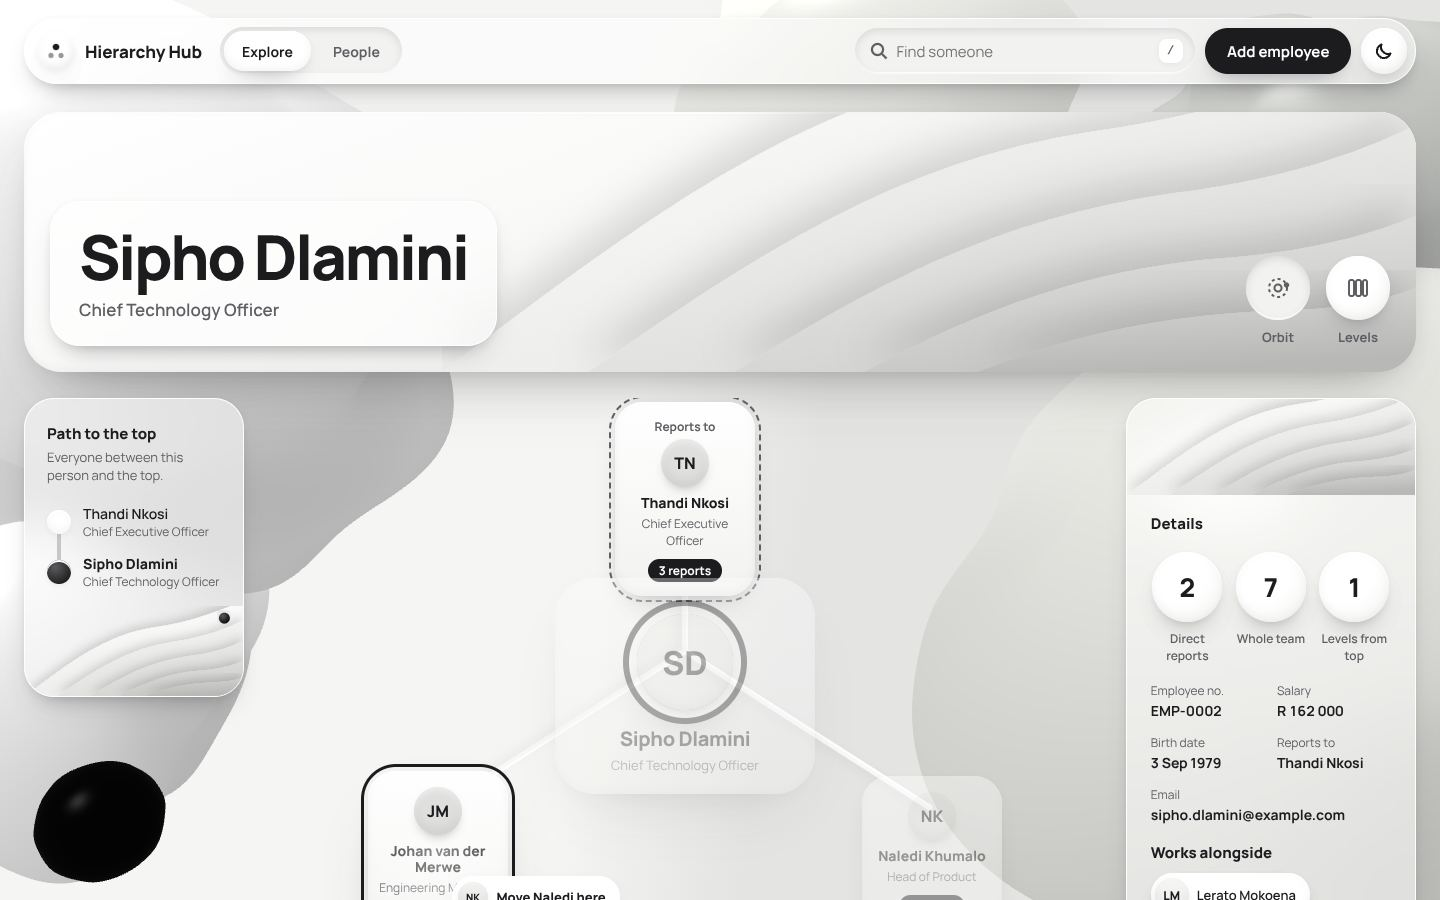
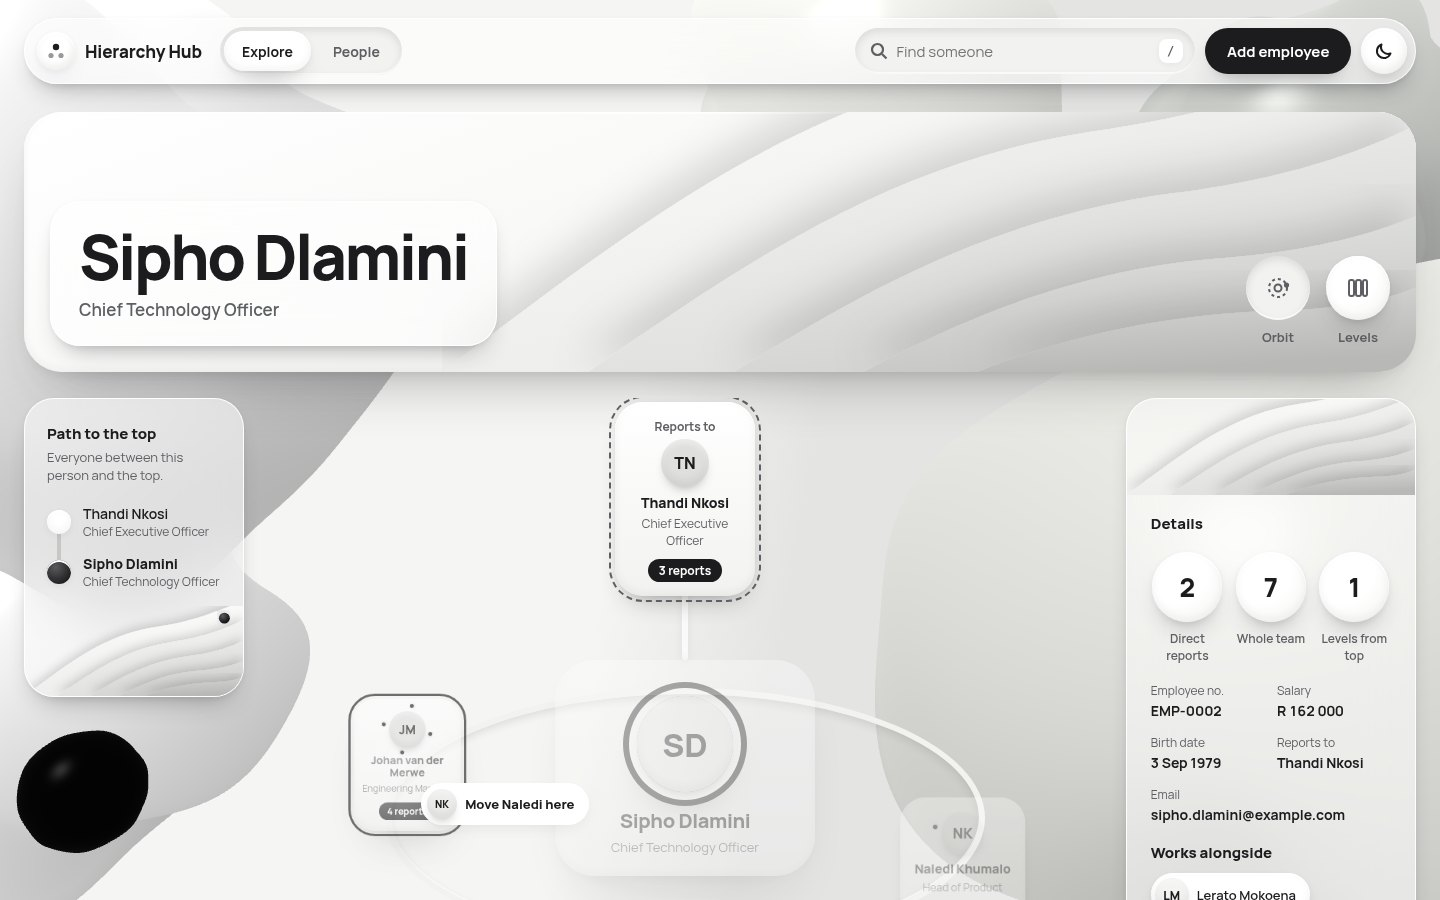
Update the user guide for the 3d orbit

diff --git a/docs/user-guide/USER_GUIDE.md b/docs/user-guide/USER_GUIDE.md
@@ -51,7 +51,7 @@ Pick the new manager and select **Save changes**. The org chart updates straight
 
 With a mouse, you can also drag someone in the Orbit view onto their new manager:
 
-1. Press and hold on a person's card and start moving.
+1. Press and hold on a person's card and start moving. The orbit stops turning while you drag.
 2. Cards you can drop on get a dashed outline. Cards you can't (the person's own team, or their current manager) fade out.
 3. Let go over the new manager. The card under the pointer gets a solid outline and the label says "Move ... here".
 4. Confirm with **Move**, or press **Cancel**. Nothing changes until you confirm.
@@ -76,13 +76,18 @@ The Explore page always focuses on one person. When you first open it, that's th
 
 ### Orbit view
 
-The selected person sits in the middle. Their manager is above them and the people who report to them are spread out below.
+The Orbit view works like a small solar system. The selected person sits in the middle, their manager is above them, and the people who report to them circle slowly around them on a tilted ring. People at the front of the ring look bigger and brighter. People at the back look smaller and pass behind the person in the middle.
 
 - **Click anyone** to move to them. They become the person in the middle.
-- Each card shows how many people report to that person, or "No team".
+- **Spin the ring yourself** by dragging the empty space around it, left or right. Let go with a flick and it glides on before settling back to its own pace. On a touch screen, swipe sideways across it.
+- The ring stops while your pointer is over someone, so you're never clicking a moving card. It also stops while you drag someone or confirm a move.
+- With the keyboard, press Tab to go from person to person. The ring turns until the person you're on faces you.
+- Each card shows how many people report to that person, or "No team". People with a team also have small moons circling their picture, one for each person in their team (up to six).
 - If someone has a very large team, the last card says **+N more**. Click it to see everyone in the Levels view.
 
-![Orbit view, with Johan in the middle, Sipho above and his team below](images/explore-orbit.jpg)
+If you've asked your device for less motion (for example "Reduce motion" on a Mac or iPhone, or "Show animations" turned off in Windows), the ring stays still. You can still drag it round. On narrow screens such as phones, the Orbit view shows the manager, the person and their team stacked in a list instead.
+
+![Orbit view, with Johan in the middle, Sipho above and his team circling him](images/explore-orbit.jpg)
 
 ### Levels view
 
